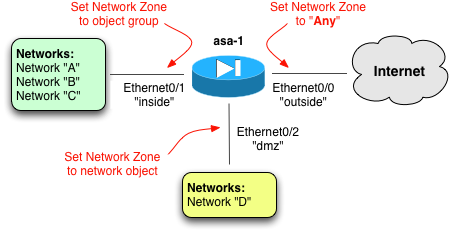
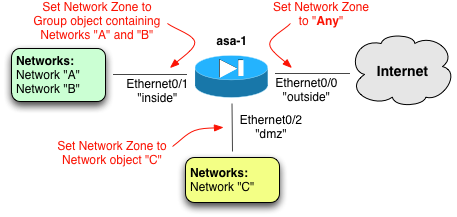
see #2000 updated text and diagram in the network zones page in new firewall wizard; new build number 3461

Changed region(s): [[0.0, 0.0, 1.0, 0.9677], [0.5859, 0.0, 0.8326, 0.1382]]

diff --git a/VERSION.h b/VERSION.h
@@ -1,2 +1,2 @@
-#define VERSION      "4.2.0.3460"
+#define VERSION      "4.2.0.3461"
 #define GENERATION   "4.2"
